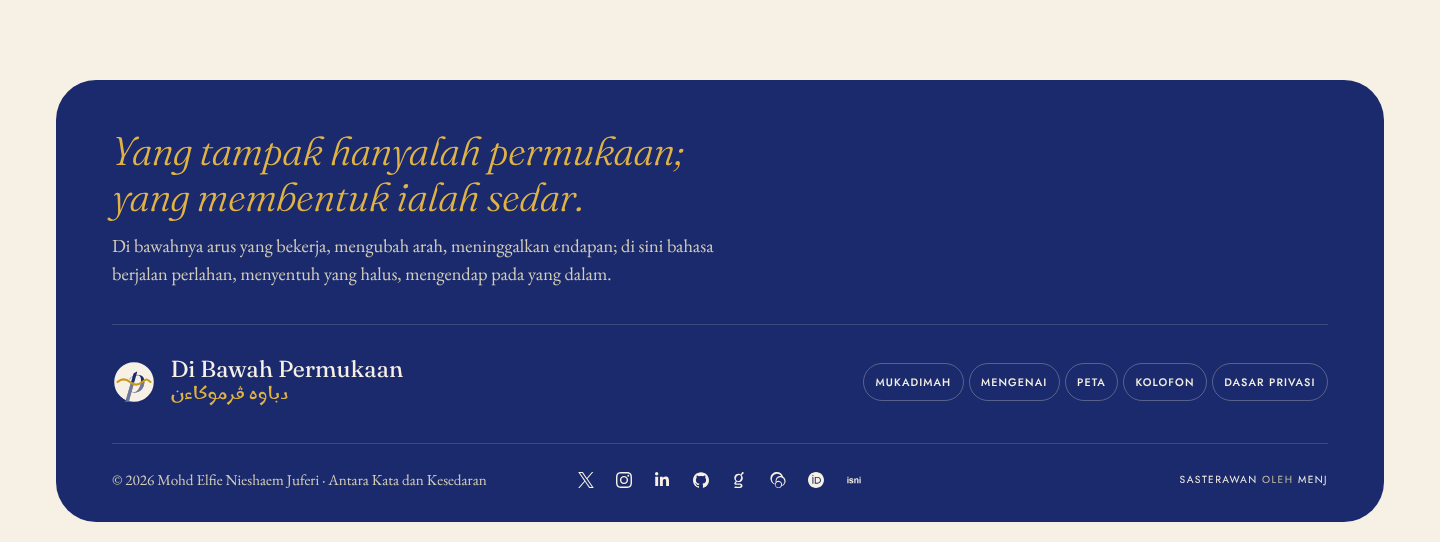
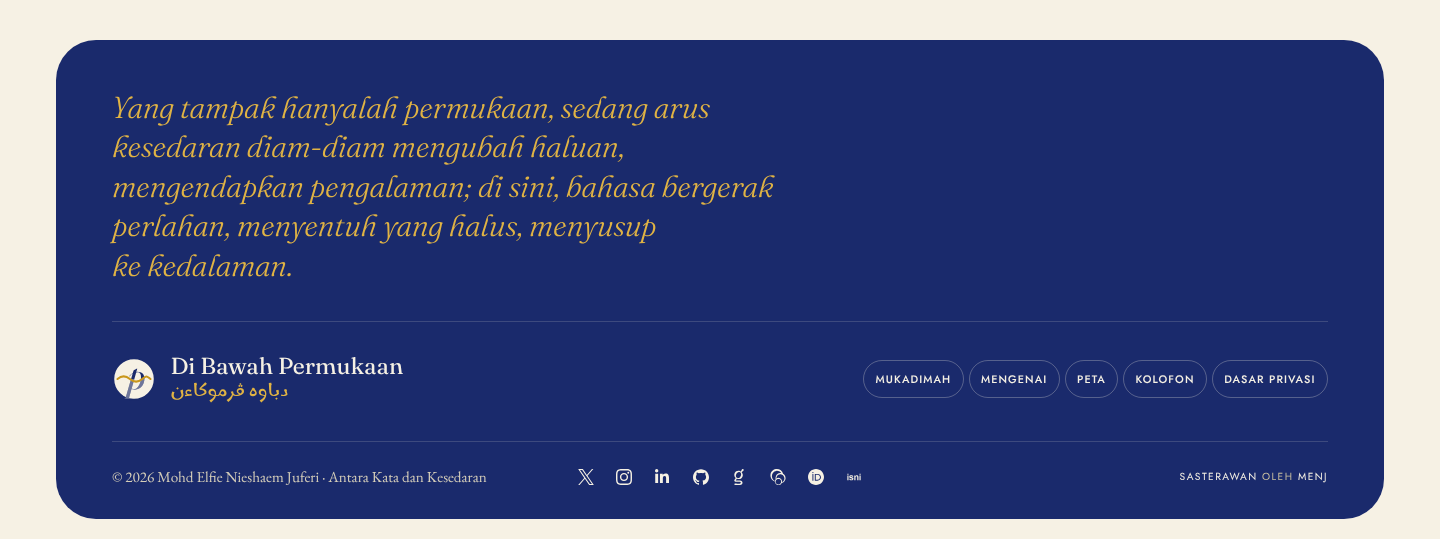
Footer sign-off: final Mukadimah sentence as default
Claude-Session: https://claude.ai/code/session_01Er8Hpy67qX5wHknT6MnoT1

diff --git a/assets/css/frontend.css b/assets/css/frontend.css
@@ -912,12 +912,12 @@ body.bwp-archive-masonry .bwp-archive-list__item { width: 49%; margin-bottom: .7
 }
 
 /* 1 · sign-off */
-.bwp-site-footer__sign { display: flex; flex-direction: column; gap: .7rem; max-width: 34em; }
+.bwp-site-footer__sign { display: flex; flex-direction: column; gap: .7rem; max-width: 38em; }
 .bwp-site-footer__lead {
     margin: 0;
     font-family: var(--bwp-font-display); font-style: italic; font-weight: 300;
-    font-size: clamp(1.6rem, 3vw, 2.5rem); line-height: 1.15; letter-spacing: -.01em;
-    color: var(--f-gold); text-wrap: balance;
+    font-size: clamp(1.35rem, 2.2vw, 1.9rem); line-height: 1.3; letter-spacing: -.005em;
+    color: var(--f-gold); text-wrap: pretty;
 }
 .bwp-site-footer__sub { margin: 0; max-width: 34em; font-size: 1.15rem; line-height: 1.55; color: #d4cdb9; }
 

diff --git a/inc/admin/settings.php b/inc/admin/settings.php
@@ -458,7 +458,7 @@ function bwp_tab_general() {
             <div class="bwp-field__control">
                 <input type="text" name="book_wp_footer_quote" id="book_wp_footer_quote"
                        value="<?php echo esc_attr( get_option( 'book_wp_footer_quote', book_wp_default_footer_quote() ) ); ?>">
-                <p class="bwp-field__hint"><?php esc_html_e( 'One italic line that closes every page, e.g. “Yang tampak hanyalah permukaan; yang membentuk ialah sedar.” Leave blank to hide the sign-off.', 'book-wp' ); ?></p>
+                <p class="bwp-field__hint"><?php esc_html_e( 'One italic line that closes every page, set once in the Mukadimah voice Leave blank to hide the sign-off.', 'book-wp' ); ?></p>
             </div>
         </div>
 

diff --git a/inc/helpers/literary.php b/inc/helpers/literary.php
@@ -170,8 +170,8 @@ function book_wp_ornament( $style = '' ) {
 /* ── Footer sign-off defaults (Di Bawah Permukaan, Mukadimah) ─────────── */
 
 function book_wp_default_footer_quote() {
-    return 'Yang tampak hanyalah permukaan; yang membentuk ialah sedar.';
+    return 'Yang tampak hanyalah permukaan, sedang arus kesedaran diam-diam mengubah haluan, mengendapkan pengalaman; di sini, bahasa bergerak perlahan, menyentuh yang halus, menyusup ke kedalaman.';
 }
 function book_wp_default_footer_quote_sub() {
-    return 'Di bawahnya arus yang bekerja, mengubah arah, meninggalkan endapan; di sini bahasa berjalan perlahan, menyentuh yang halus, mengendap pada yang dalam.';
+    return '';
 }
